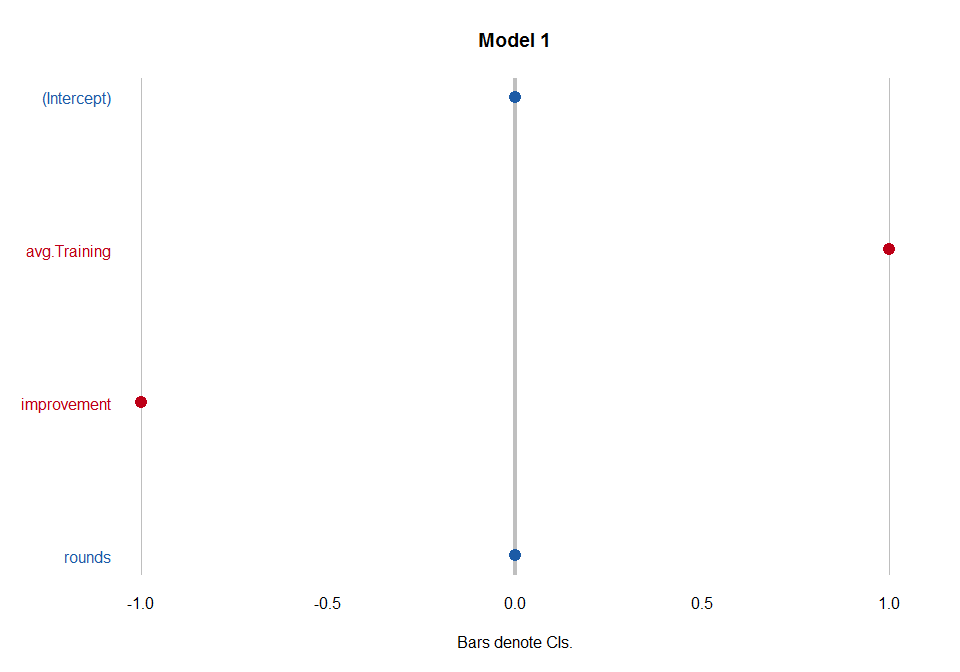
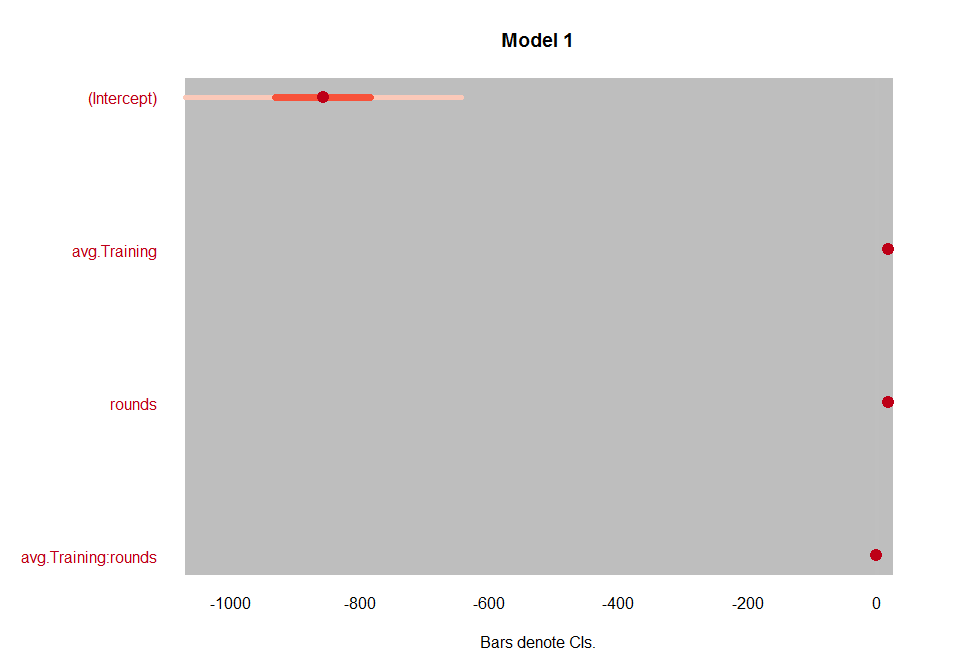
Minor improvements

diff --git a/karting_analysis.html b/karting_analysis.html
@@ -89,8 +89,8 @@ img {
 ## Please cite the JSS article in your publications -- see citation(&quot;texreg&quot;).</code></pre>
 <div id="so-we-went-karting." class="section level1">
 <h1><span class="header-section-number">1</span> So we went karting….</h1>
-<p>’T was one of Daan’s last days as a bachelor, and he decided he had little too lose: Let’s go karting!</p>
-<p>But who won, and why? Let’s use this as a quick-’n-dirty presentation of R-markdown, the wonderous world of ANCOVA and how people learn how to go-karting!</p>
+<p>’T was one of Daan’s last days as a bachelor, and he decided he had little to lose: Let’s go karting!</p>
+<p>But who won, and why? Let’s use this as a quick-’n-dirty presentation of R-markdown, the wonderous world of linear modelling and how people learn how to go-karting!</p>
 <div id="lets-start-with-the-end-the-winners" class="section level2">
 <h2><span class="header-section-number">1.1</span> Let’s start with the end: the winners</h2>
 <p>We’ll get it over with: Daan didn’t quite win (and neither did I). So who did?</p>
@@ -173,7 +173,10 @@ img {
 <div id="personal-improvement" class="section level2">
 <h2><span class="header-section-number">2.1</span> Personal improvement</h2>
 <p>If we look at it from the perspective of personal improvement, what does that give us?</p>
-<pre class="sourceCode r"><code class="sourceCode r"><span class="kw">ggplot</span>(kartdata,<span class="kw">aes</span>(<span class="dt">x=</span>df_num,<span class="dt">y=</span>avg, <span class="dt">colour=</span>name))+<span class="kw">geom_line</span>(<span class="kw">aes</span>(<span class="dt">group=</span>name),<span class="dt">size=</span><span class="dv">3</span>)+<span class="kw">geom_point</span>(<span class="dt">line=</span><span class="st">&quot;white&quot;</span>,<span class="dt">size=</span><span class="dv">6</span>)+<span class="kw">scale_y_reverse</span>()+<span class="kw">xlab</span>(<span class="st">&quot;round&quot;</span>)+<span class="st"> </span><span class="kw">ylab</span>(<span class="st">&quot;inverted time&quot;</span>)+<span class="kw">ggtitle</span>(<span class="st">&quot;Personal round averages throughout the rounds&quot;</span>)</code></pre>
+<pre class="sourceCode r"><code class="sourceCode r"><span class="kw">ggplot</span>(kartdata,<span class="kw">aes</span>(<span class="dt">x=</span>df_num,<span class="dt">y=</span>avg, <span class="dt">colour=</span>name))+
+<span class="st">  </span><span class="kw">geom_line</span>(<span class="kw">aes</span>(<span class="dt">group=</span>name),<span class="dt">size=</span><span class="dv">3</span>)+
+<span class="st">  </span><span class="kw">geom_point</span>(<span class="dt">line=</span><span class="st">&quot;white&quot;</span>,<span class="dt">size=</span><span class="dv">6</span>)+
+<span class="st">  </span><span class="kw">scale_y_reverse</span>()+<span class="kw">xlab</span>(<span class="st">&quot;round&quot;</span>)+<span class="st"> </span><span class="kw">ylab</span>(<span class="st">&quot;inverted time&quot;</span>)+<span class="kw">ggtitle</span>(<span class="st">&quot;Personal round averages throughout the rounds&quot;</span>)</code></pre>
 <div class="figure">
[1 lines of base64/hex data omitted]
 </div>
@@ -182,7 +185,7 @@ img {
 ## varying, : multiple rows match for df_num=Training: first taken</code></pre>
 <pre class="sourceCode r"><code class="sourceCode r">wide_kart$improvement &lt;-<span class="st"> </span>wide_kart$avg.Training -<span class="st"> </span>wide_kart$avg.Finals
 
-<span class="kw">kable</span>(wide_kart[<span class="kw">order</span>(wide_kart$improvement,<span class="dt">decreasing=</span>T),<span class="kw">c</span>(<span class="st">&quot;name&quot;</span>,<span class="st">&quot;improvement&quot;</span>)],<span class="dt">caption =</span> <span class="st">&quot;Time improvement between training and round 10 averages&quot;</span>)</code></pre>
+<span class="kw">kable</span>(wide_kart[<span class="kw">order</span>(wide_kart$improvement,<span class="dt">decreasing=</span>T),<span class="kw">c</span>(<span class="st">&quot;name&quot;</span>,<span class="st">&quot;improvement&quot;</span>,<span class="st">&quot;avg.Training&quot;</span> ,<span class="st">&quot;avg.Finals&quot;</span>,<span class="st">&quot;pos.Training&quot;</span>,<span class="st">&quot;pos.Finals&quot;</span>)],<span class="dt">caption =</span> <span class="st">&quot;Time improvement between training and round 10 averages&quot;</span>)</code></pre>
 <table>
 <caption>Time improvement between training and round 10 averages</caption>
 <thead>
@@ -190,6 +193,10 @@ img {
 <th align="left"></th>
 <th align="left">name</th>
 <th align="right">improvement</th>
+<th align="right">avg.Training</th>
+<th align="right">avg.Finals</th>
+<th align="right">pos.Training</th>
+<th align="right">pos.Finals</th>
 </tr>
 </thead>
 <tbody>
@@ -197,51 +204,91 @@ img {
 <td align="left">3</td>
 <td align="left">Steven</td>
 <td align="right">12.69</td>
+<td align="right">52.92</td>
+<td align="right">40.23</td>
+<td align="right">3</td>
+<td align="right">8</td>
 </tr>
 <tr class="even">
 <td align="left">8</td>
 <td align="left">Jeroen</td>
 <td align="right">11.65</td>
+<td align="right">50.47</td>
+<td align="right">38.82</td>
+<td align="right">8</td>
+<td align="right">2</td>
 </tr>
 <tr class="odd">
 <td align="left">6</td>
 <td align="left">Bob</td>
 <td align="right">11.23</td>
+<td align="right">50.36</td>
+<td align="right">39.13</td>
+<td align="right">6</td>
+<td align="right">3</td>
 </tr>
 <tr class="even">
 <td align="left">1</td>
 <td align="left">Dietrick</td>
 <td align="right">11.16</td>
+<td align="right">49.58</td>
+<td align="right">38.42</td>
+<td align="right">1</td>
+<td align="right">1</td>
 </tr>
 <tr class="odd">
 <td align="left">7</td>
 <td align="left">Joost</td>
 <td align="right">11.06</td>
+<td align="right">51.07</td>
+<td align="right">40.01</td>
+<td align="right">7</td>
+<td align="right">7</td>
 </tr>
 <tr class="even">
 <td align="left">5</td>
 <td align="left">Ruben</td>
 <td align="right">10.90</td>
+<td align="right">50.27</td>
+<td align="right">39.37</td>
+<td align="right">5</td>
+<td align="right">5</td>
 </tr>
 <tr class="odd">
 <td align="left">4</td>
 <td align="left">Paul</td>
 <td align="right">9.40</td>
+<td align="right">48.48</td>
+<td align="right">39.08</td>
+<td align="right">4</td>
+<td align="right">4</td>
 </tr>
 <tr class="even">
 <td align="left">2</td>
 <td align="left">Daan</td>
 <td align="right">9.06</td>
+<td align="right">48.53</td>
+<td align="right">39.47</td>
+<td align="right">2</td>
+<td align="right">6</td>
 </tr>
 <tr class="odd">
 <td align="left">9</td>
 <td align="left">Alice</td>
 <td align="right">5.71</td>
+<td align="right">51.60</td>
+<td align="right">45.89</td>
+<td align="right">9</td>
+<td align="right">9</td>
 </tr>
 <tr class="even">
 <td align="left">10</td>
 <td align="left">Thijs</td>
 <td align="right">4.71</td>
+<td align="right">53.04</td>
+<td align="right">48.33</td>
+<td align="right">10</td>
+<td align="right">10</td>
 </tr>
 </tbody>
 </table>
@@ -250,33 +297,32 @@ img {
 for(n in <span class="kw">paste</span>(<span class="st">&quot;.&quot;</span>,<span class="kw">unique</span>(kartdata$df_num),<span class="dt">sep=</span><span class="st">&quot;&quot;</span>)) for (ni in <span class="kw">paste</span>(<span class="st">&quot;X&quot;</span>,<span class="dv">1</span>:<span class="dv">15</span>,n,<span class="dt">sep=</span><span class="st">&quot;&quot;</span>)) if (ni %in%<span class="st"> </span><span class="kw">names</span>(wide_kart)) roundnames &lt;-<span class="st"> </span><span class="kw">c</span>(roundnames,ni)
 wide_kart$rounds &lt;-<span class="st"> </span><span class="kw">apply</span>(wide_kart[roundnames],<span class="dv">1</span>,function(x){<span class="kw">sum</span>(!<span class="kw">is.na</span>(x))})
 
-m &lt;-<span class="st"> </span><span class="kw">lm</span>(avg.Finals~avg.Training+improvement+rounds,wide_kart)
+m &lt;-<span class="st"> </span><span class="kw">lm</span>(avg.Finals~avg.Training*rounds,wide_kart)
 <span class="kw">summary</span>(m)</code></pre>
 <pre><code>## 
 ## Call:
-## lm(formula = avg.Finals ~ avg.Training + improvement + rounds, 
-##     data = wide_kart)
+## lm(formula = avg.Finals ~ avg.Training * rounds, data = wide_kart)
 ## 
 ## Residuals:
-##        Min         1Q     Median         3Q        Max 
-## -2.870e-14  2.114e-15  3.916e-15  5.117e-15  5.754e-15 
+##      Min       1Q   Median       3Q      Max 
+## -0.56087 -0.12315  0.06638  0.23176  0.38687 
 ## 
 ## Coefficients:
-##                Estimate Std. Error    t value Pr(&gt;|t|)    
-## (Intercept)  -1.798e-13  2.745e-13 -6.550e-01    0.537    
-## avg.Training  1.000e+00  3.853e-15  2.595e+14   &lt;2e-16 ***
-## improvement  -1.000e+00  3.494e-15 -2.862e+14   &lt;2e-16 ***
-## rounds        1.103e-15  2.671e-15  4.130e-01    0.694    
+##                       Estimate Std. Error t value Pr(&gt;|t|)    
+## (Intercept)         -857.78589  109.01823  -7.868 0.000223 ***
+## avg.Training          17.93570    2.09836   8.547 0.000141 ***
+## rounds                17.67934    2.19749   8.045 0.000197 ***
+## avg.Training:rounds   -0.35355    0.04234  -8.351 0.000160 ***
 ## ---
 ## Signif. codes:  0 '***' 0.001 '**' 0.01 '*' 0.05 '.' 0.1 ' ' 1
 ## 
-## Residual standard error: 1.294e-14 on 6 degrees of freedom
-## Multiple R-squared:      1,  Adjusted R-squared:      1 
-## F-statistic: 2.045e+29 on 3 and 6 DF,  p-value: &lt; 2.2e-16</code></pre>
+## Residual standard error: 0.4254 on 6 degrees of freedom
+## Multiple R-squared:  0.9894, Adjusted R-squared:  0.9841 
+## F-statistic: 187.1 on 3 and 6 DF,  p-value: 2.578e-06</code></pre>
 <pre class="sourceCode r"><code class="sourceCode r"><span class="kw">plotreg</span>(m)</code></pre>
 <pre><code>## Model 1: bars denote 0.5 (inner) resp. 0.95 (outer) confidence intervals (computed from standard errors).</code></pre>
 <div class="figure">
[2 lines of base64/hex data omitted]
 </div>
 </div>
 </div>

diff --git a/karting_analysis.md b/karting_analysis.md
@@ -14,9 +14,9 @@ Monday, May 04, 2015
 
 # So we went karting....
 
-'T was one of Daan's last days as a bachelor, and he decided he had little too lose: Let's go karting!
+'T was one of Daan's last days as a bachelor, and he decided he had little to lose: Let's go karting!
 
-But who won, and why? Let's use this as a quick-'n-dirty presentation of R-markdown, the wonderous world of ANCOVA and how people learn how to go-karting!
+But who won, and why? Let's use this as a quick-'n-dirty presentation of R-markdown, the wonderous world of linear modelling and how people learn how to go-karting!
 
 ## Let's start with the end: the winners
 
@@ -63,7 +63,10 @@ If we look at it from the perspective of personal improvement, what does that gi
 
 
 ```r
-ggplot(kartdata,aes(x=df_num,y=avg, colour=name))+geom_line(aes(group=name),size=3)+geom_point(line="white",size=6)+scale_y_reverse()+xlab("round")+ ylab("inverted time")+ggtitle("Personal round averages throughout the rounds")
+ggplot(kartdata,aes(x=df_num,y=avg, colour=name))+
+  geom_line(aes(group=name),size=3)+
+  geom_point(line="white",size=6)+
+  scale_y_reverse()+xlab("round")+ ylab("inverted time")+ggtitle("Personal round averages throughout the rounds")
 ```
 
 ![](karting_analysis_files/figure-html/unnamed-chunk-4-1.png) 
@@ -80,25 +83,25 @@ wide_kart <- reshape(data = kartdata,direction="wide", timevar="df_num",idvar="n
 ```r
 wide_kart$improvement <- wide_kart$avg.Training - wide_kart$avg.Finals
 
-kable(wide_kart[order(wide_kart$improvement,decreasing=T),c("name","improvement")],caption = "Time improvement between training and round 10 averages")
+kable(wide_kart[order(wide_kart$improvement,decreasing=T),c("name","improvement","avg.Training" ,"avg.Finals","pos.Training","pos.Finals")],caption = "Time improvement between training and round 10 averages")
 ```
 
 
 
 Table: Time improvement between training and round 10 averages
 
-     name        improvement
----  ---------  ------------
-3    Steven            12.69
-8    Jeroen            11.65
-6    Bob               11.23
-1    Dietrick          11.16
-7    Joost             11.06
-5    Ruben             10.90
-4    Paul               9.40
-2    Daan               9.06
-9    Alice              5.71
-10   Thijs              4.71
+     name        improvement   avg.Training   avg.Finals   pos.Training   pos.Finals
+---  ---------  ------------  -------------  -----------  -------------  -----------
+3    Steven            12.69          52.92        40.23              3            8
+8    Jeroen            11.65          50.47        38.82              8            2
+6    Bob               11.23          50.36        39.13              6            3
+1    Dietrick          11.16          49.58        38.42              1            1
+7    Joost             11.06          51.07        40.01              7            7
+5    Ruben             10.90          50.27        39.37              5            5
+4    Paul               9.40          48.48        39.08              4            4
+2    Daan               9.06          48.53        39.47              2            6
+9    Alice              5.71          51.60        45.89              9            9
+10   Thijs              4.71          53.04        48.33             10           10
 
 So did the best learner win? It's not quite clear from that little diddy. So we'll throw it through a simple lm, just for the heck of it. But wait, how do the extra rounds figure into this (if your quick, you can do more rounds...)
 
@@ -108,32 +111,31 @@ roundnames <- character()
 for(n in paste(".",unique(kartdata$df_num),sep="")) for (ni in paste("X",1:15,n,sep="")) if (ni %in% names(wide_kart)) roundnames <- c(roundnames,ni)
 wide_kart$rounds <- apply(wide_kart[roundnames],1,function(x){sum(!is.na(x))})
 
-m <- lm(avg.Finals~avg.Training+improvement+rounds,wide_kart)
+m <- lm(avg.Finals~avg.Training*rounds,wide_kart)
 summary(m)
 ```
 
 ```
 ## 
 ## Call:
-## lm(formula = avg.Finals ~ avg.Training + improvement + rounds, 
-##     data = wide_kart)
+## lm(formula = avg.Finals ~ avg.Training * rounds, data = wide_kart)
 ## 
 ## Residuals:
-##        Min         1Q     Median         3Q        Max 
-## -2.870e-14  2.114e-15  3.916e-15  5.117e-15  5.754e-15 
+##      Min       1Q   Median       3Q      Max 
+## -0.56087 -0.12315  0.06638  0.23176  0.38687 
 ## 
 ## Coefficients:
-##                Estimate Std. Error    t value Pr(>|t|)    
-## (Intercept)  -1.798e-13  2.745e-13 -6.550e-01    0.537    
-## avg.Training  1.000e+00  3.853e-15  2.595e+14   <2e-16 ***
-## improvement  -1.000e+00  3.494e-15 -2.862e+14   <2e-16 ***
-## rounds        1.103e-15  2.671e-15  4.130e-01    0.694    
+##                       Estimate Std. Error t value Pr(>|t|)    
+## (Intercept)         -857.78589  109.01823  -7.868 0.000223 ***
+## avg.Training          17.93570    2.09836   8.547 0.000141 ***
+## rounds                17.67934    2.19749   8.045 0.000197 ***
+## avg.Training:rounds   -0.35355    0.04234  -8.351 0.000160 ***
 ## ---
 ## Signif. codes:  0 '***' 0.001 '**' 0.01 '*' 0.05 '.' 0.1 ' ' 1
 ## 
-## Residual standard error: 1.294e-14 on 6 degrees of freedom
-## Multiple R-squared:      1,	Adjusted R-squared:      1 
-## F-statistic: 2.045e+29 on 3 and 6 DF,  p-value: < 2.2e-16
+## Residual standard error: 0.4254 on 6 degrees of freedom
+## Multiple R-squared:  0.9894,	Adjusted R-squared:  0.9841 
+## F-statistic: 187.1 on 3 and 6 DF,  p-value: 2.578e-06
 ```
 
 ```r
@@ -148,4 +150,5 @@ plotreg(m)
 
 # The End (?)
 
-That's it: the better your start, the more rounds you do, the better you end! Now theres a first-mover advantage for you!
+That's it: the better your start, the more rounds you do, the better you end! 
+Now theres a first-mover advantage for you!
